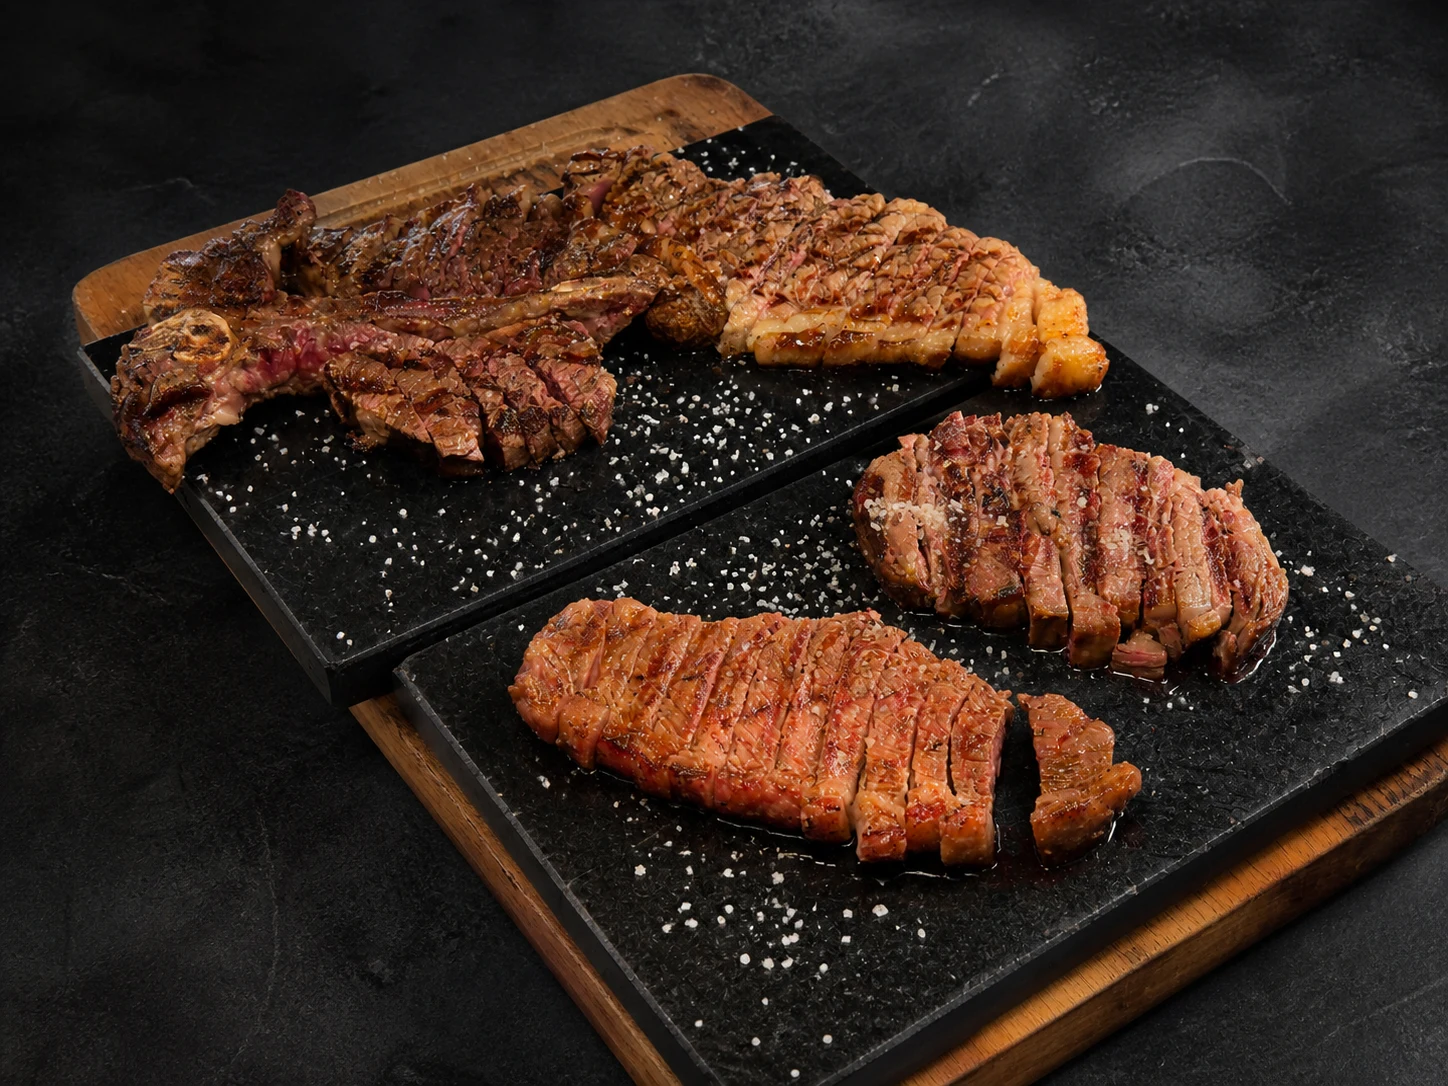
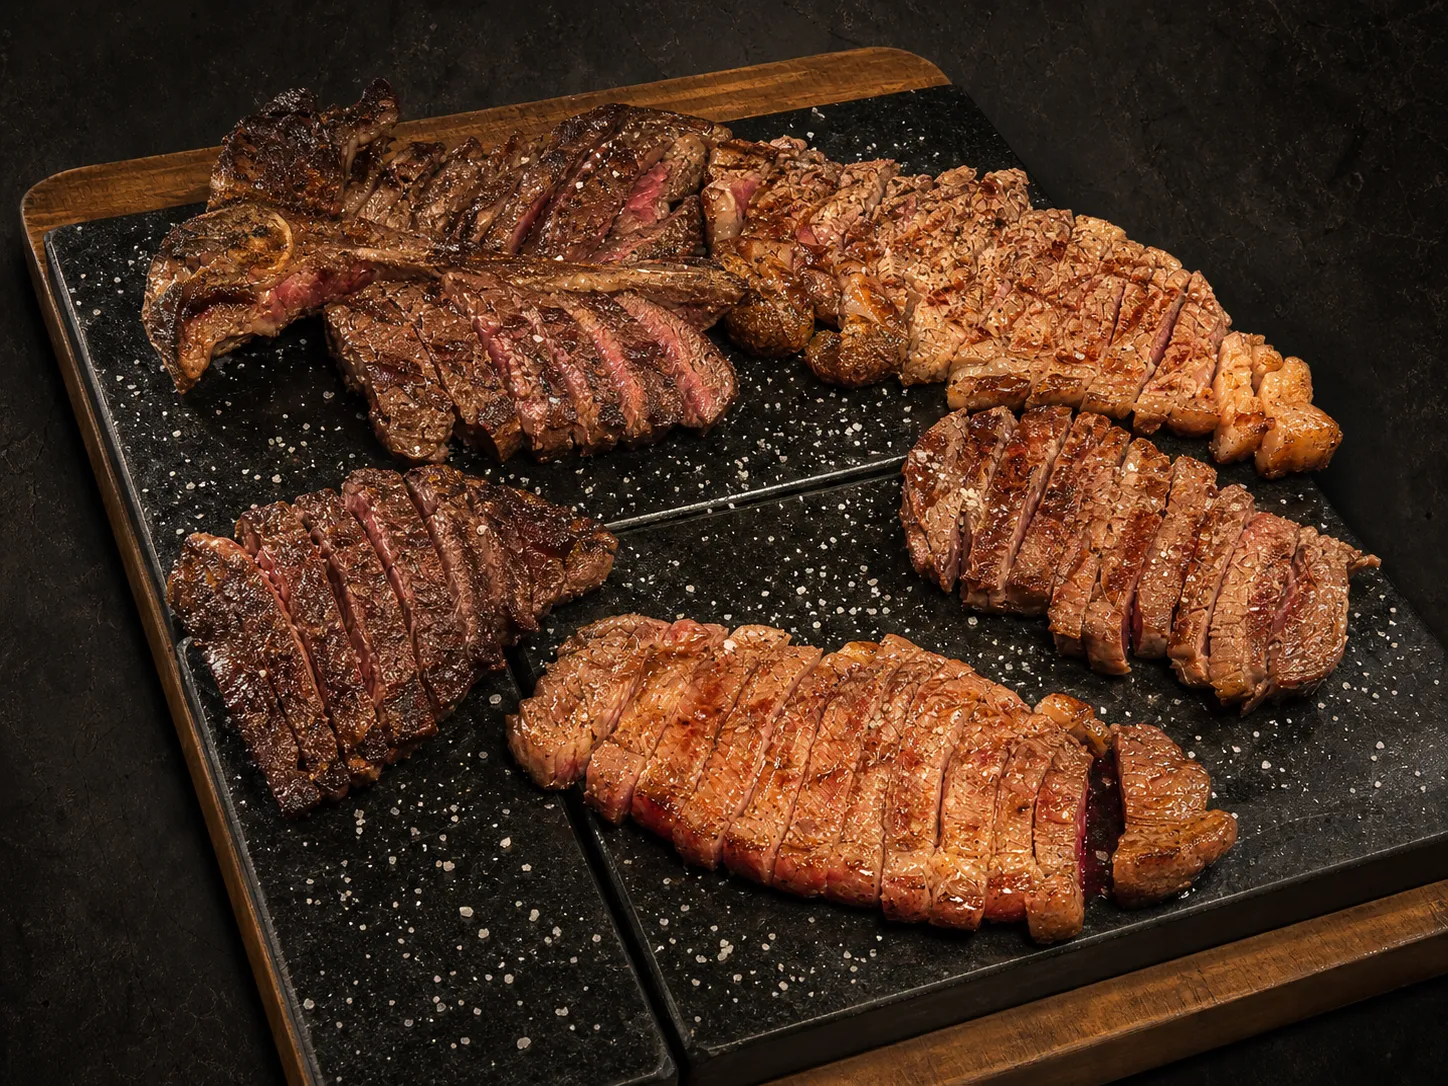
feat(menu): tábuas 100% completas + reativar ShareSection
- Tábua Latina Premium: foto melhor (substituiu a anterior)
- Tábua Surf and Turf: foto adicionada (era a última faltando)
- ShareSection ("Ideal para Partilhar") reativada na home view
  agora que as 3 tábuas + Pata Negra têm foto

diff --git a/app/[locale]/menu/page.tsx b/app/[locale]/menu/page.tsx
@@ -11,6 +11,7 @@ import { useMenuStore } from '@/stores/useMenuStore';
 import CategoryNav from '@/components/menu/CategoryNav';
 import SearchBar from '@/components/menu/SearchBar';
 import FeaturedSection from '@/components/menu/FeaturedSection';
+import ShareSection from '@/components/menu/ShareSection';
 import MenuGrid from '@/components/menu/MenuGrid';
 import MenuItemDetail from '@/components/menu/MenuItemDetail';
 import ScrollToTop from '@/components/menu/ScrollToTop';
@@ -107,12 +108,10 @@ function MenuPageInner() {
           {showCuratedSections ? (
             <>
               <FeaturedSection onSelectItem={setSelectedItem} />
+              <ShareSection onSelectItem={setSelectedItem} />
 
-              {/* On the home view (no filter): show only the Entradas
-                  category beneath Featured. The full menu grid is reached
-                  via the top category tabs. ShareSection ("Ideal para
-                  Partilhar") removed temporariamente — sem fotos das
-                  tábuas ainda. */}
+              {/* Beneath ShareSection, na home view: só a categoria
+                  Entradas. O grid completo é alcançado via tabs do topo. */}
               <section className="mb-8">
                 <div className="mb-4 flex items-center gap-2">
                   <Salad className="h-5 w-5 text-accent-green" />

diff --git a/lib/menu-images.ts b/lib/menu-images.ts
@@ -52,9 +52,10 @@ const itemImageMap: Record<string, string> = {
   'shrimp-flambe':                    '/menu/shrimp-flambe.webp',
   'kobe-tataki':                      '/menu/kobe-tataki.webp',
 
-  // Tábuas (falta só a Surf and Turf)
+  // Tábuas
   'latina-premium-board':             '/menu/latina-premium-board.webp',
   'dry-aged-board':                   '/menu/dry-aged-board.webp',
+  'surf-turf-board':                  '/menu/surf-turf-board.webp',
 
   // Guarnições
   'golden-potatoes-truffle':          '/menu/truffle-raw.jpeg',
